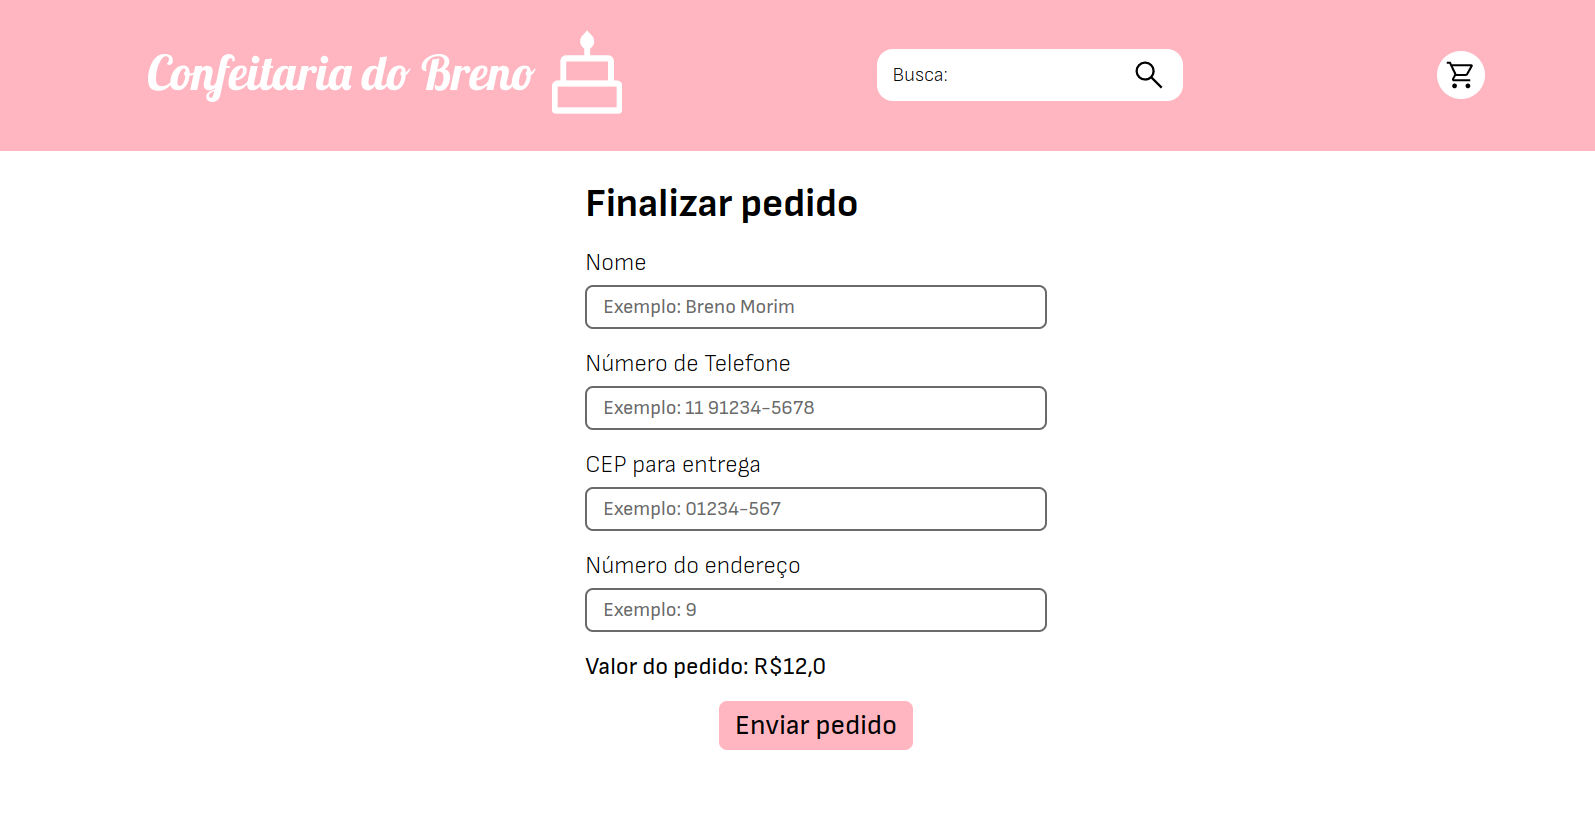
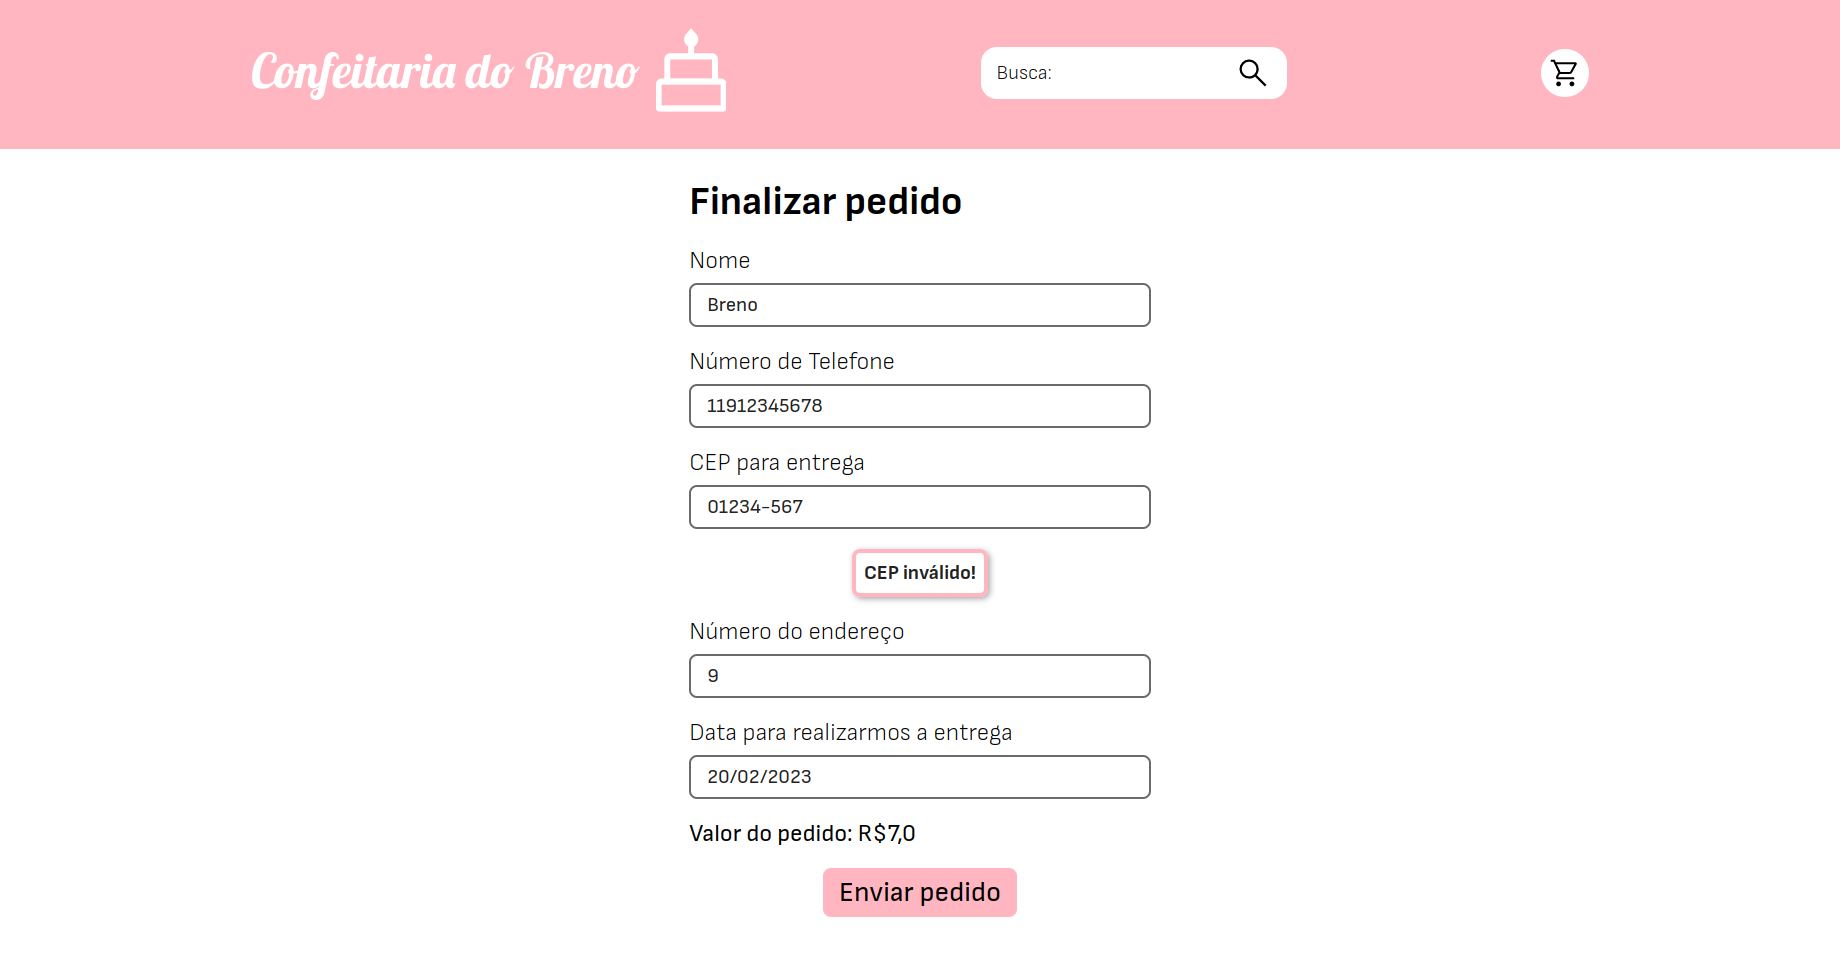
Incluindo data para entrega no Pedido

diff --git a/setup/static/styles/style.css b/setup/static/styles/style.css
@@ -30,13 +30,13 @@ body {
 }
 
 .alerta {
-    color: var(--rosa);
+    color: var(--preto);
     font-weight: 700;
     font-size: 1.25rem;
     text-align: center;
     padding: .5rem;
     border-radius: .5rem;
-    border: 2px solid var(--rosa);
+    border: 4px solid var(--rosa);
     align-self: center;
     box-shadow: var(--sombra);
 }

diff --git a/static/styles/style.css b/static/styles/style.css
@@ -30,7 +30,7 @@ body {
 }
 
 .alerta {
-    color: var(--rosa);
+    color: var(--preto);
     font-weight: 700;
     font-size: 1.25rem;
     text-align: center;

diff --git a/pedidos/forms.py b/pedidos/forms.py
@@ -1,6 +1,7 @@
 from django import forms
 import requests
 import re
+from django.utils import timezone
 
 
 class PedidoForms(forms.Form):
@@ -28,6 +29,12 @@ class PedidoForms(forms.Form):
             "placeholder": "Exemplo: 9"
         }
     ))
+    data_entrega=forms.DateField(
+        input_formats=["%d/%m/%Y"],
+        required=True,
+        label="Data para realizarmos a entrega",
+        widget=forms.DateInput(attrs={"class": "form__data-entrega", "placeholder": "Exemplo: 20/02/2023"},format=["%d/%m/%Y"])
+    )
 
     def clean_cep(self):
         cep = self.cleaned_data.get("cep")
@@ -55,4 +62,16 @@ class PedidoForms(forms.Form):
             raise forms.ValidationError('Número de contato inválido! Lembre-se de usar o padrão 11 91234-5678')
 
         return contato
+
+    def clean_data_entrega(self):
+        data_entrega = self.cleaned_data.get("data_entrega")
+        if not data_entrega:
+            raise forms.ValidationError("Data de entrega não enviada")
+        
+        data_atual = timezone.datetime.now().date()
+
+        if data_entrega > data_atual:
+            return data_entrega
+        else:
+            raise forms.ValidationError("A data de entrega deve ser no minínimo um dia depois de hoje")
         

diff --git a/pedidos/views.py b/pedidos/views.py
@@ -30,6 +30,11 @@ def finalizar_pedido(request):
             contato = forms['contato'].value()
             cep = forms['cep'].value()
             numero_endereco = forms['numero_endereco'].value()
+            data_entrega = forms['data_entrega'].value()
+
+            # Adaptando a data para o formato aceito pelo banco de dados
+            dia, mes, ano = data_entrega.split('/')
+            data_entrega = f"{ano}-{mes}-{dia}"
 
             pedido = Pedido.objects.create(
                 nome_comprador=nome,
@@ -37,7 +42,8 @@ def finalizar_pedido(request):
                 valor_total=valor_total,
                 cep_entrega=cep,
                 numero_endereco=numero_endereco,
-                itens = {"itens": itens}
+                itens={"itens": itens},
+                data_entrega=data_entrega
             )
 
             pedido.save()

diff --git a/pedidos/admin.py b/pedidos/admin.py
@@ -3,9 +3,10 @@ from pedidos.models import Pedido
 
 
 class ListandoPedidos(admin.ModelAdmin):
-    list_display = ("id", "nome_comprador", "contato_comprador", "valor_total", "data_pedido", "entregue")
-    list_display_links = ("id", "nome_comprador")
+    list_display = ("id", "nome_comprador", "contato_comprador", "valor_total", "data_pedido", "data_entrega", "entregue")
+    list_display_links = ("id", "nome_comprador", "contato_comprador")
     list_editable = ("entregue",)
+    list_filter = ("data_pedido", "data_entrega", "entregue")
     search_fields = ("nome_comprador", "contato_comprador")
     list_per_page = 15
 

diff --git a/pedidos/migrations/0002_pedido_data_entrega.py b/pedidos/migrations/0002_pedido_data_entrega.py
@@ -1,0 +1,20 @@
+# Generated by Django 4.1.5 on 2023-01-31 13:41
+
+from django.db import migrations, models
+import django.utils.timezone
+
+
+class Migration(migrations.Migration):
+
+    dependencies = [
+        ("pedidos", "0001_initial"),
+    ]
+
+    operations = [
+        migrations.AddField(
+            model_name="pedido",
+            name="data_entrega",
+            field=models.DateField(default=django.utils.timezone.now),
+            preserve_default=False,
+        ),
+    ]

diff --git a/pedidos/models.py b/pedidos/models.py
@@ -12,3 +12,4 @@ class Pedido(models.Model):
     itens = models.JSONField(null=False)
     entregue = models.BooleanField(default=False)
     data_pedido = models.DateField(default=timezone.now)
+    data_entrega = models.DateField(blank=False, null=False)

diff --git a/README.md b/README.md
@@ -2,7 +2,14 @@
 
 > Status: Concluído
 
-Uma confeitaria online desenvolvida em **Django** com SQLite3.
+Uma confeitaria online desenvolvida com **Python** em **Django**.
+
+| :placard: Vitrine.Dev |     |
+| -------------  | --- |
+| :sparkles: Nome | **Confeitaria do Breno**
+| :label: Tecnologias | Python, Django, HTML, CSS
+
+![Imagem de capa do projeto](https://github.com/BrenoMorim/confeitaria/blob/main/imagens/index.png?raw=true#vitrinedev)
 
 ## Detalhes do projeto
 
@@ -18,11 +25,15 @@ Onde alguns produtos em destaque são exibidos na forma de carrossel, usando Swi
 
 ![Screenshot da página inicial](./imagens/index.png)
 
+---
+
 ### Busca
 
 Página que mostra os resultados da busca que pode ser feita usando o campo que fica no header da aplicação.
 
 ![Screenshot da página de busca](./imagens/busca.png)
+
+---
 
 ### Detalhes
 
@@ -30,11 +41,15 @@ Mostra os detalhes de um produto específico, que pode ser acessado por um botã
 
 ![Screenshot da página de detalhes de um produto](./imagens/detalhes.png)
 
+---
+
 ### Carrinho
 
 Contém uma lista com todos os produtos que já foram adicionados no carrinho, sendo possível remover ou adicionar mais itens.
 
 ![Screenshot do carrinho](./imagens/carrinho.png)
+
+---
 
 ### Finalizar Pedido
 
@@ -42,10 +57,10 @@ Página com formulário das informações do cliente, como telefone de contato, 
 
 ![Screenshot com o formulário de finalização de pedido](./imagens/finalizar.png)
 
+---
+
 ### Erro
 
 Página para erros 500 e 404, que é renderizada somente em ambiente de produção, quando a opção DEBUG de settings.py está como False.
 
 ![Screenshot da página de erro](./imagens/erro.png)
-
----
